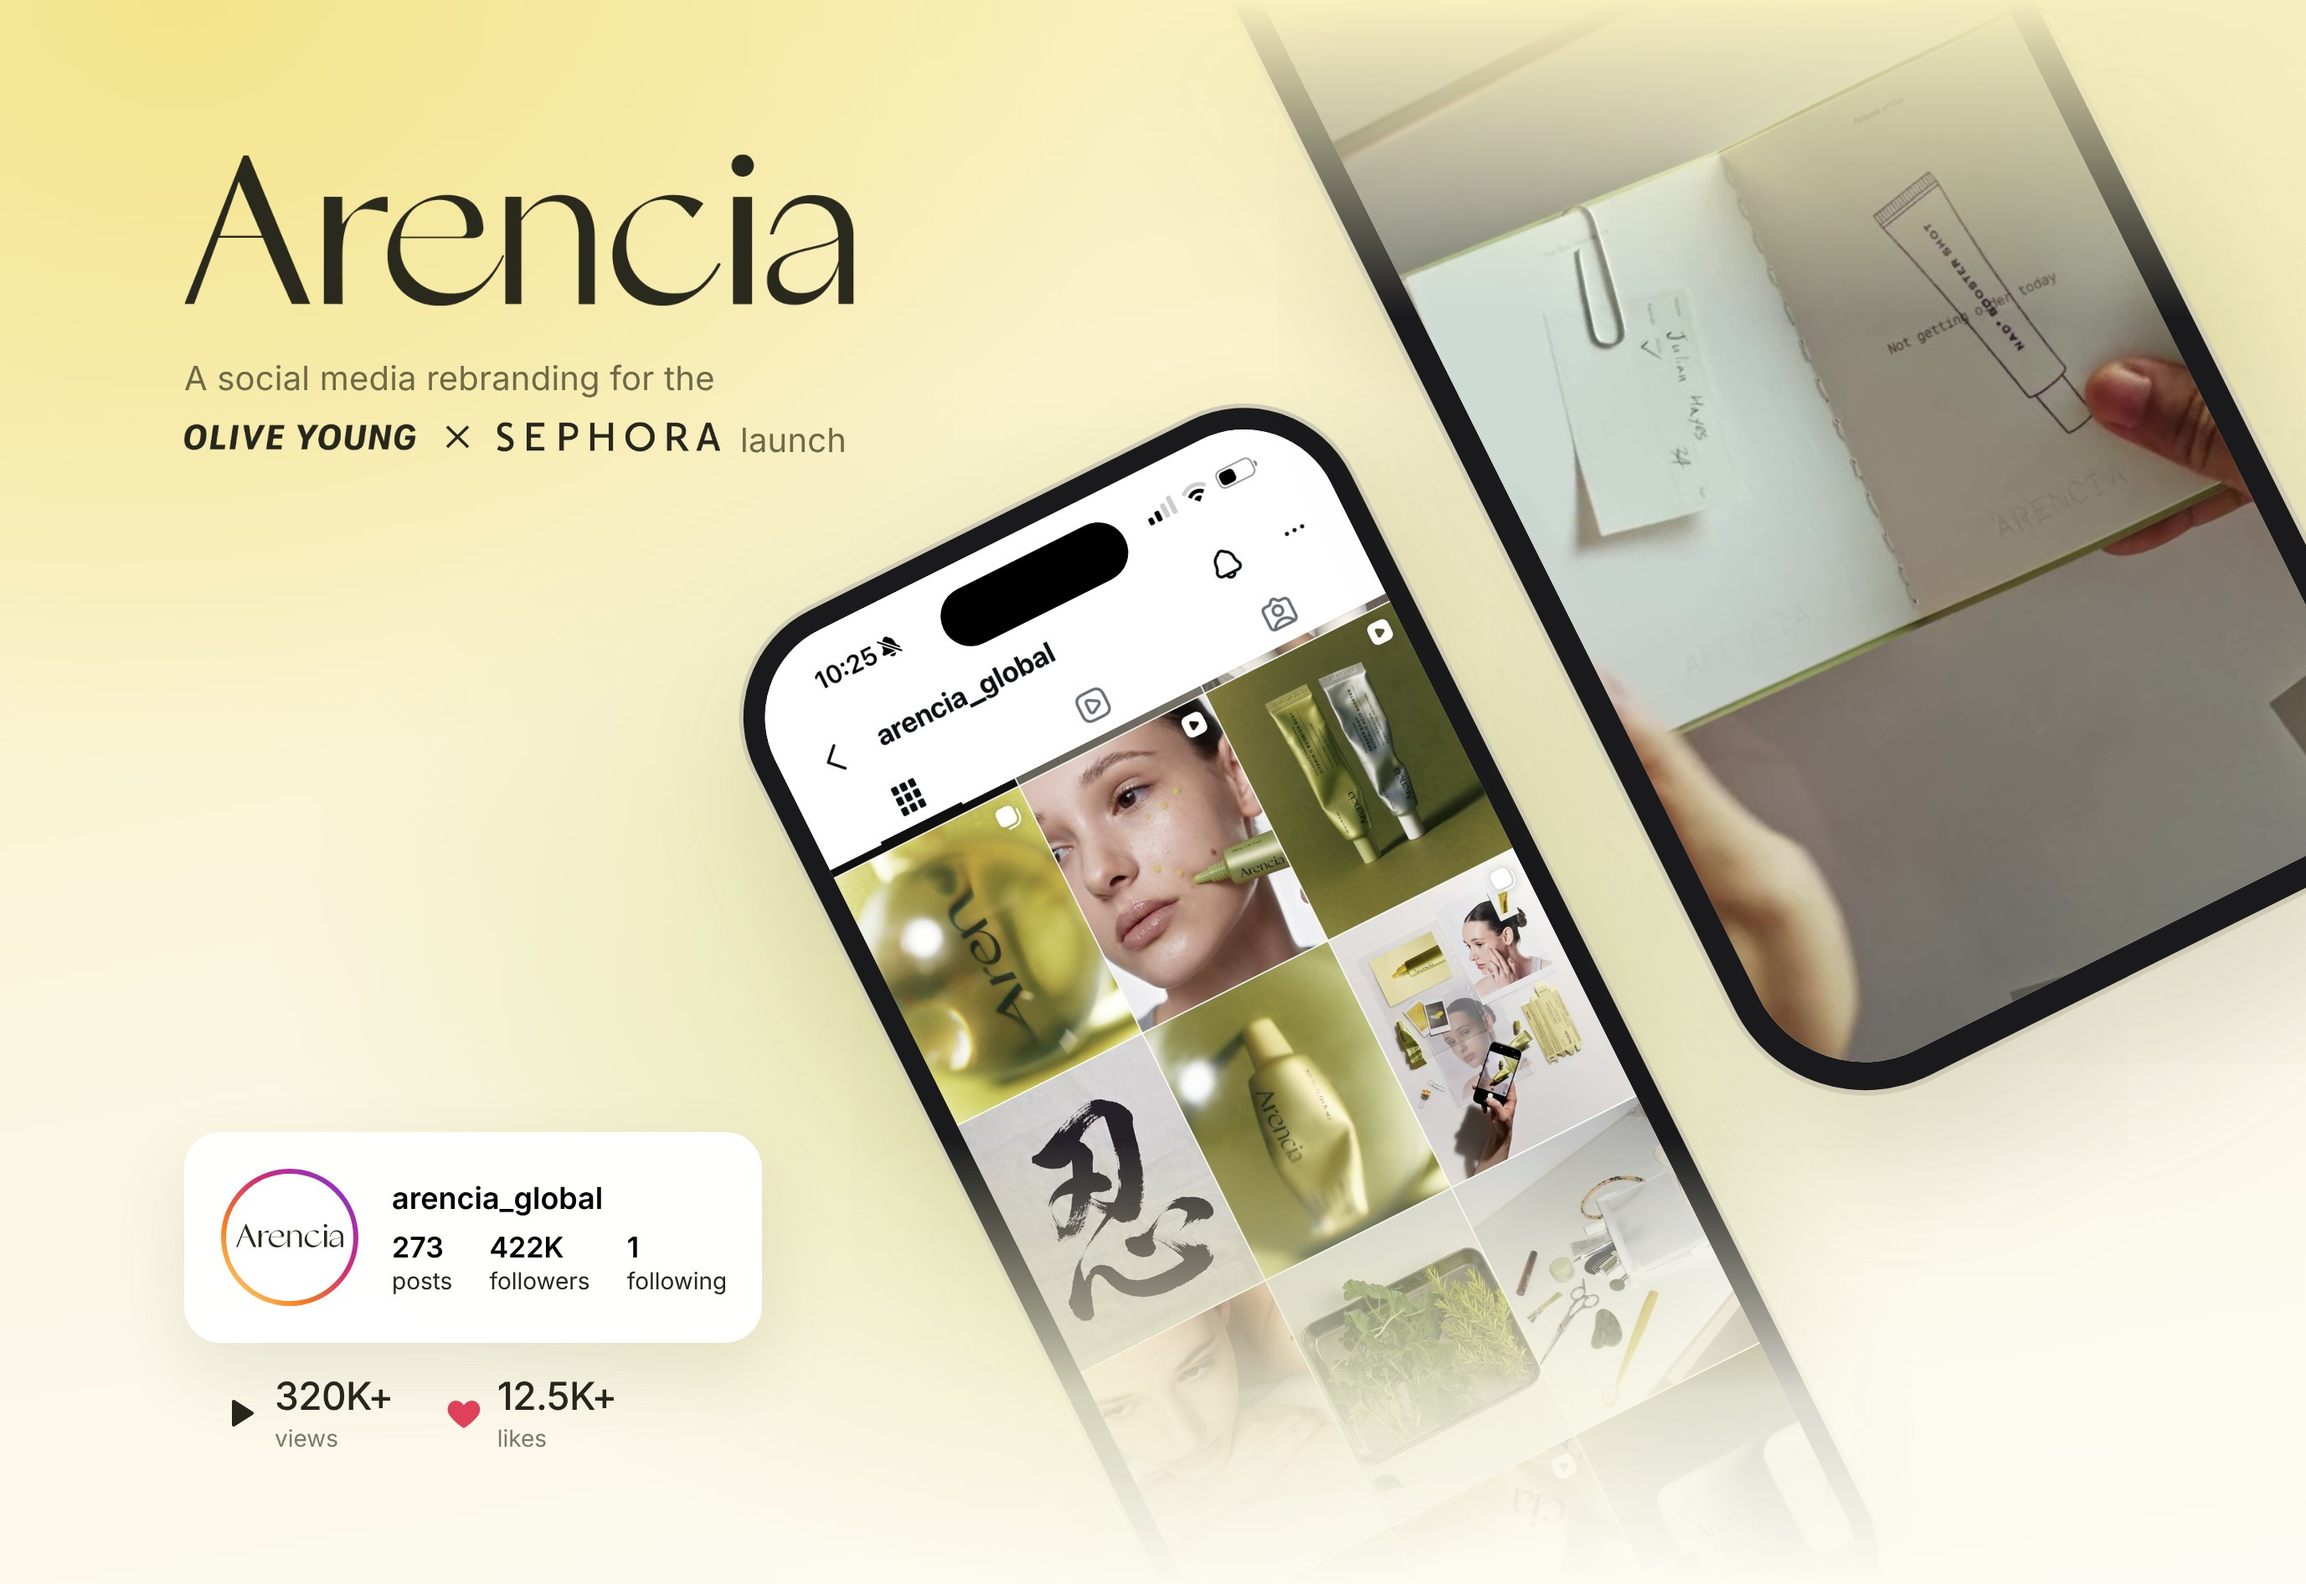
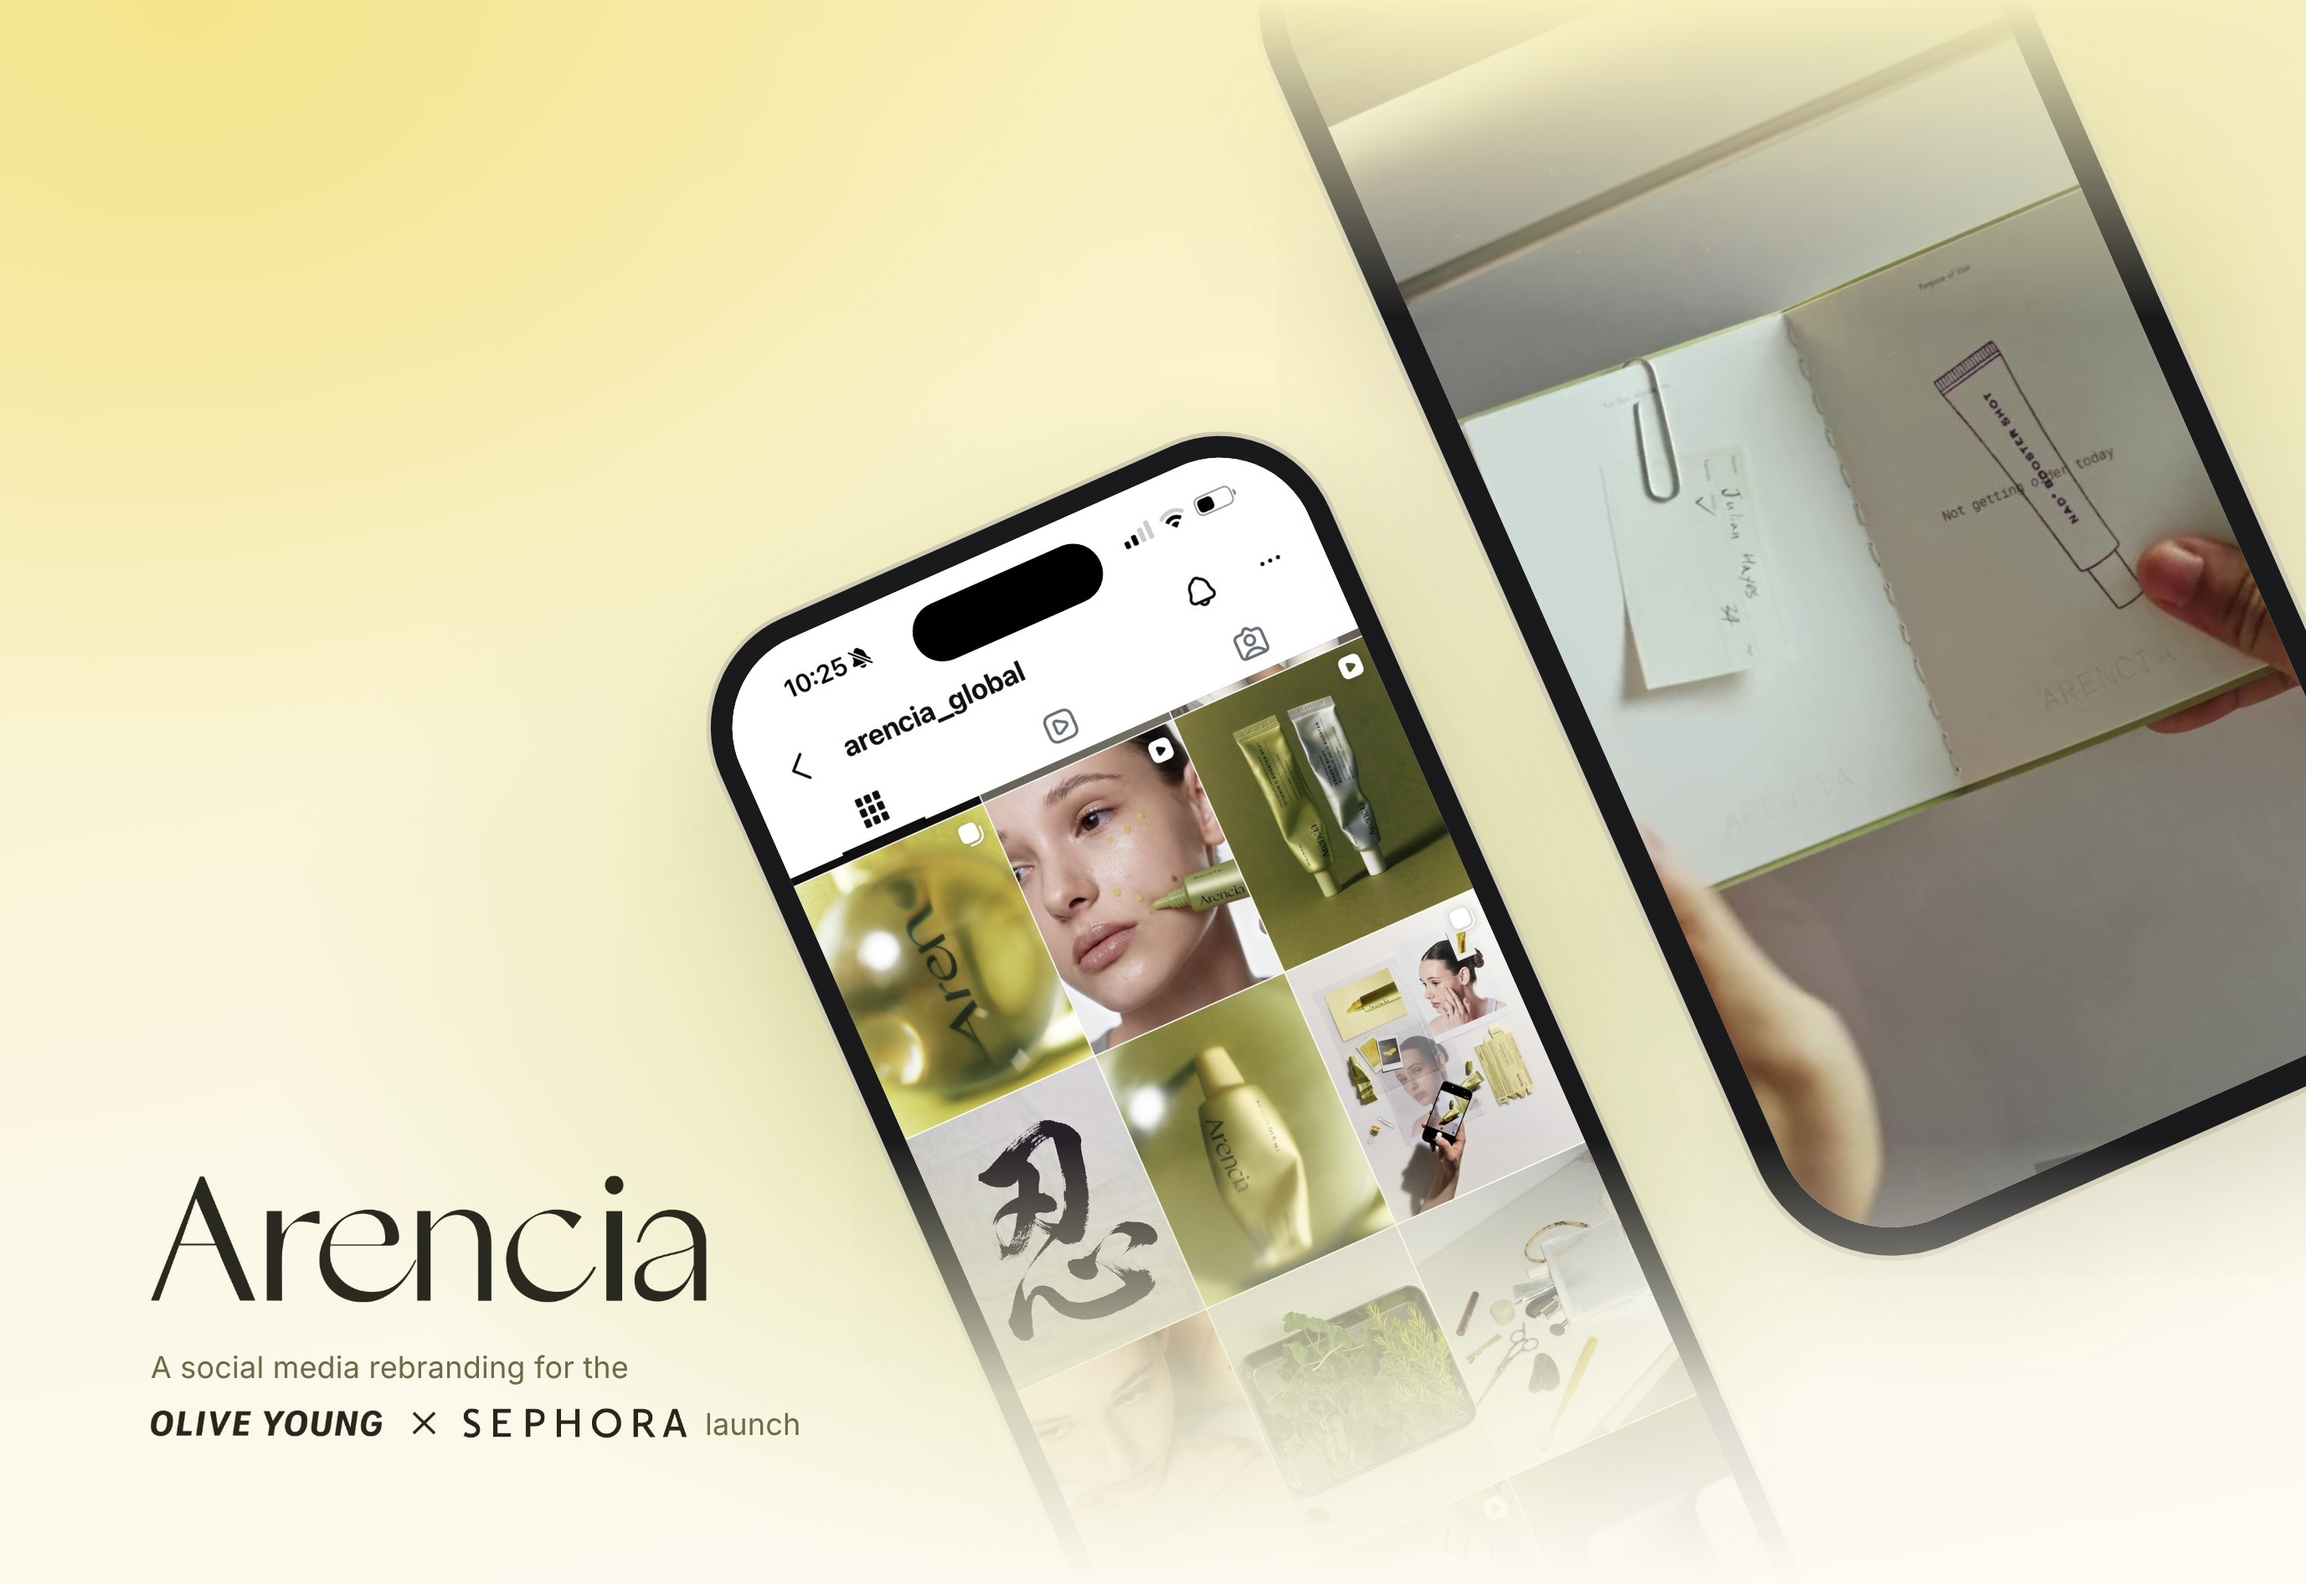
Home: match the covers to the current Figma layouts (#24)
Na Kim: title moves to the top right with the poster on the left and the spread below. Arencia: title back at the bottom left; profile card and views/likes removed. Bark: cards removed, leaving the headline and iMac.

Claude-Session: https://claude.ai/code/session_01PJkMotC6Nz8qWguHKxjy1y

diff --git a/index.html b/index.html
@@ -50,8 +50,8 @@
 
       <a class="project" href="cmugpt-site/index.html">
         <div class="project__media project__media--cmugpt">
-          <img src="cmugpt-site/images/cover.png?v=9" width="1377" height="946"
-            alt="Bark cover: 'Ask anything about Carnegie Mellon.' above an iMac showing a Bark answer with an interactive CMU Maps route, with a model picker card (GPT-5.6 Luna selected) and a chat search card showing a starred chat and recent chats">
+          <img src="cmugpt-site/images/cover.png?v=10" width="1377" height="946"
+            alt="Bark cover: 'Ask anything about Carnegie Mellon.' above an iMac showing a Bark answer with an interactive CMU Maps route">
           <video class="project__hover" data-src="cmugpt-site/images/hover.mp4?v=2" muted playsinline loop preload="none" aria-hidden="true"></video>
         </div>
         <h2 class="project__title">Bark</h2>
@@ -60,8 +60,8 @@
 
       <a class="project" href="arencia-site/index.html">
         <div class="project__media project__media--arencia">
-          <img src="arencia-site/images/cover.jpg?v=14" width="1377" height="946"
-            alt="Arencia cover: the @arencia_global Instagram profile (273 posts, 422K followers) with 320K+ views and 12.5K+ likes, two tilted phones showing the rebranded Instagram grid and the Booster Shot video, and the Arencia logo with 'A social media rebranding for the Olive Young x Sephora launch'">
+          <img src="arencia-site/images/cover.jpg?v=15" width="1377" height="946"
+            alt="Arencia cover: two tilted phones showing the rebranded Instagram grid and the Booster Shot video, and the Arencia logo with 'A social media rebranding for the Olive Young x Sephora launch'">
           <video class="project__hover" data-src="arencia-site/images/hover.mp4?v=1" muted playsinline loop preload="none" aria-hidden="true"></video>
         </div>
         <h2 class="project__title">Arencia</h2>
@@ -70,8 +70,8 @@
 
       <a class="project" href="design-hero-site/index.html">
         <div class="project__media project__media--hero">
-          <img src="design-hero-site/images/cover.jpg?v=5" width="1377" height="946"
-            alt="Na Kim cover: the title on a cream background above the tilted booklet contents spread and the 'simple form, complex idea' poster">
+          <img src="design-hero-site/images/cover.jpg?v=6" width="1377" height="946"
+            alt="Na Kim cover: 'Design Hero: Na Kim' at the top right on a cream background, with the tilted 'simple form, complex idea' poster on the left and the booklet contents spread below">
           <video class="project__hover" data-src="design-hero-site/images/hover.mp4?v=1" muted playsinline loop preload="none" aria-hidden="true"></video>
         </div>
         <h2 class="project__title">Design Hero</h2>
